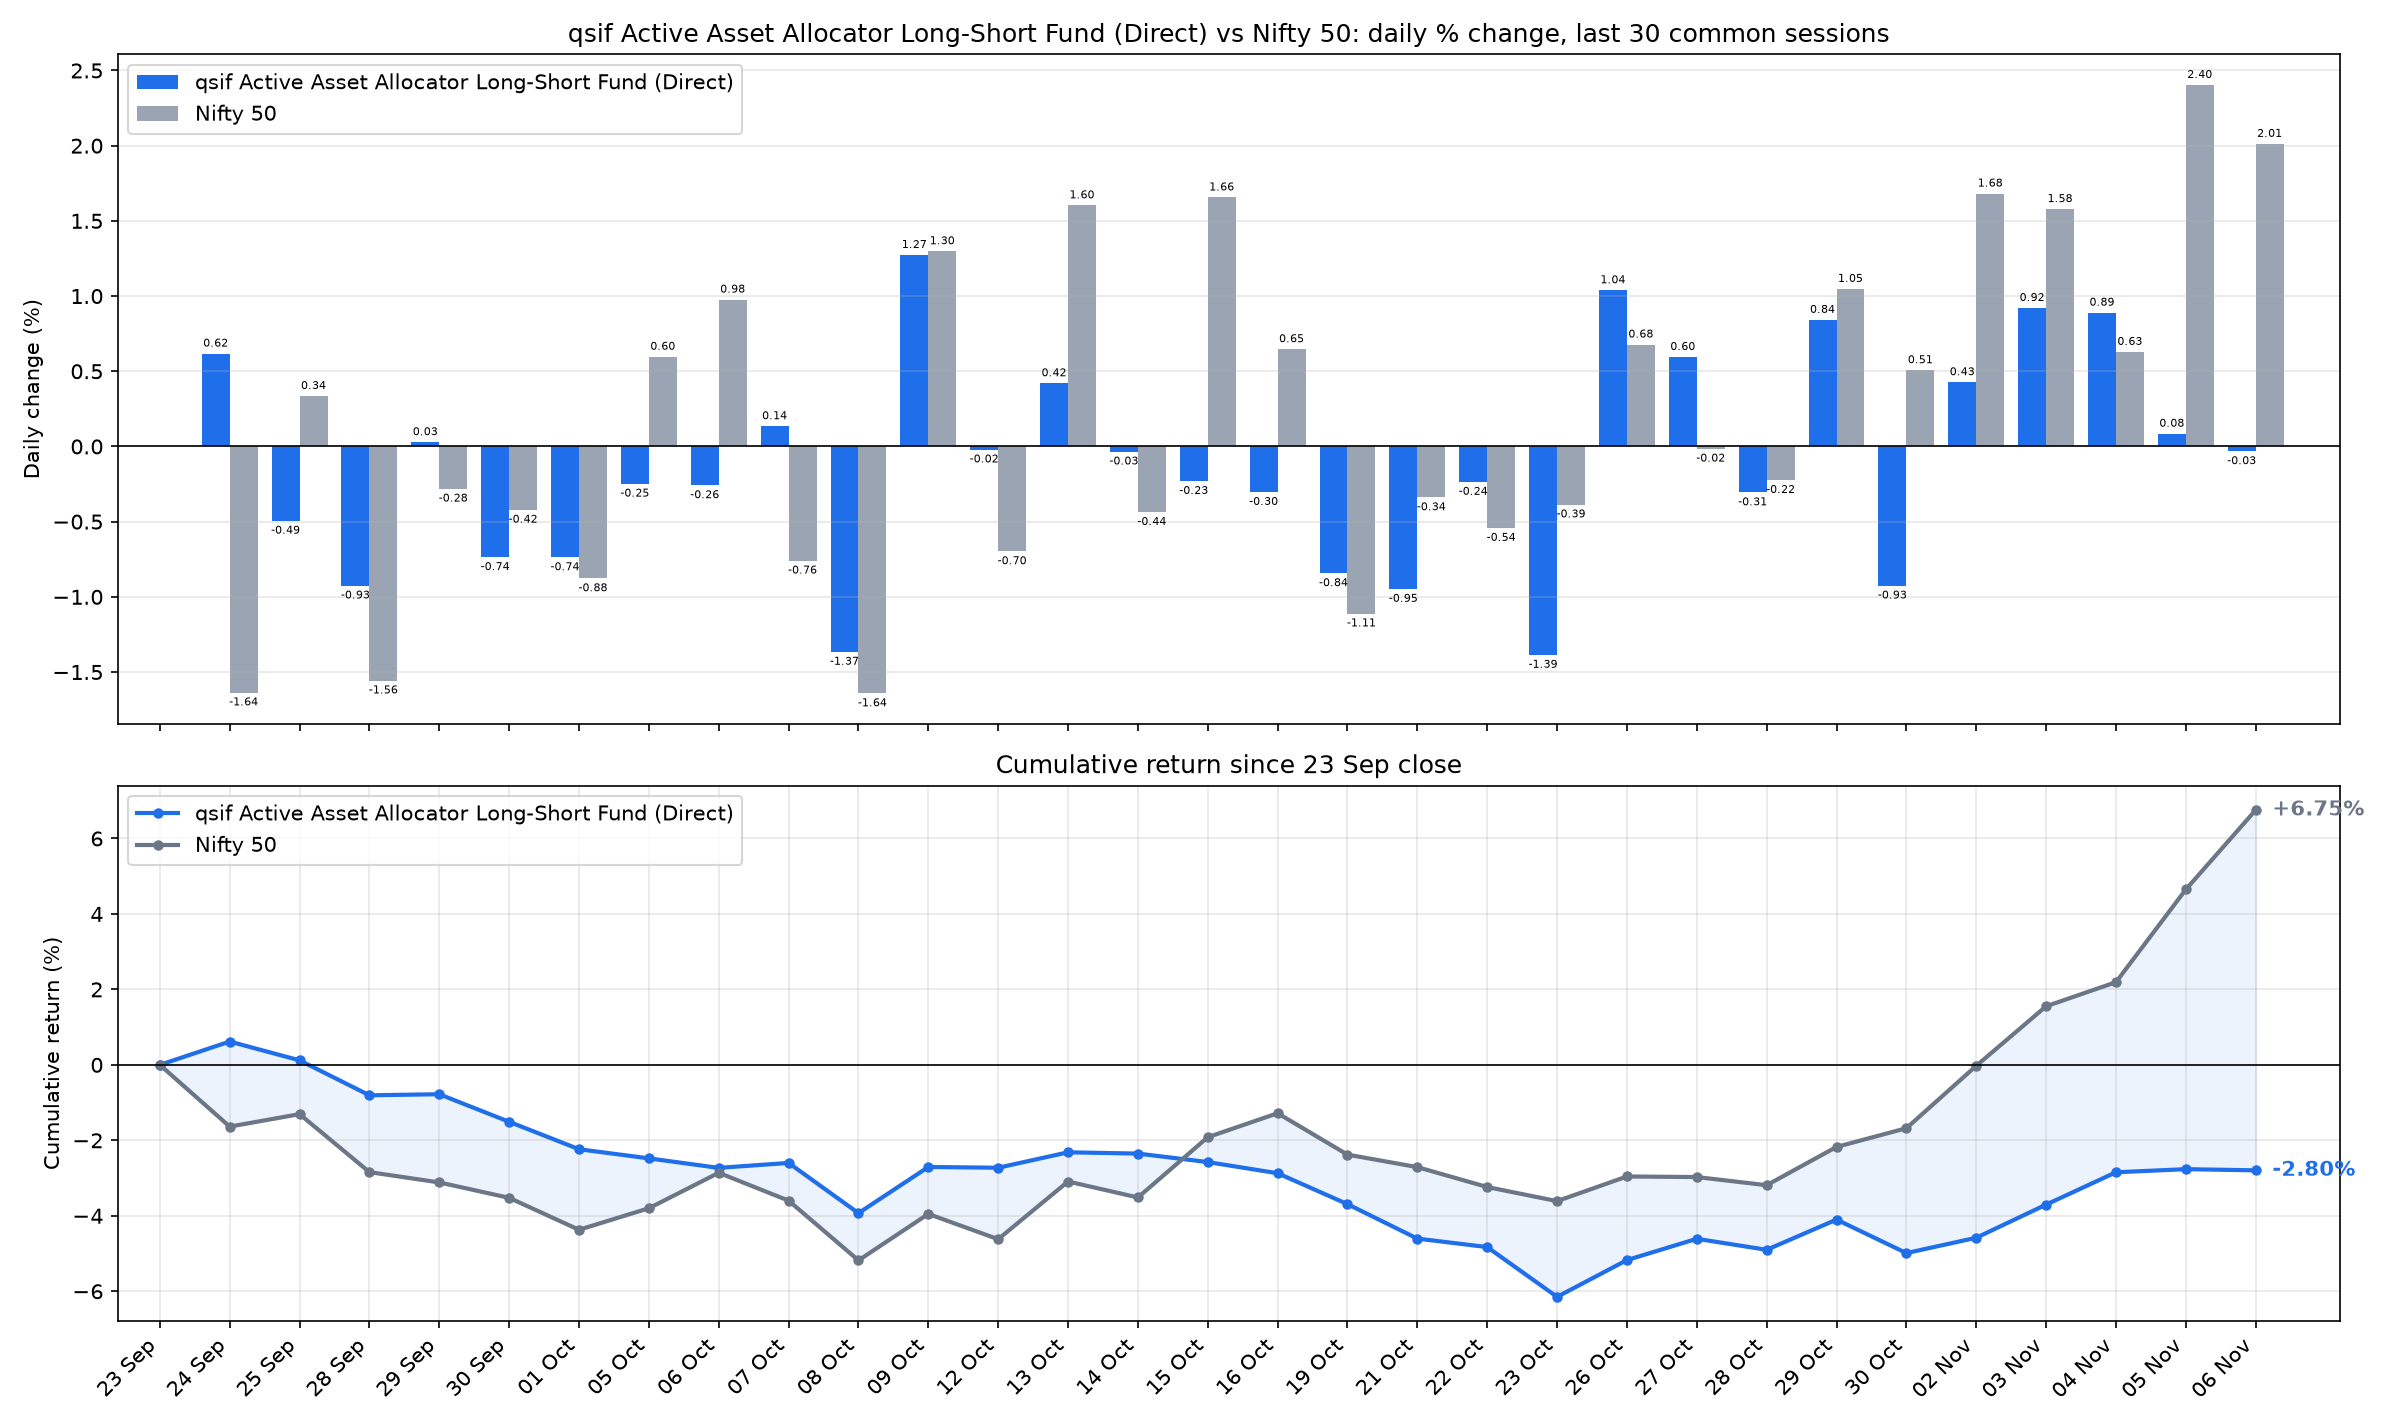
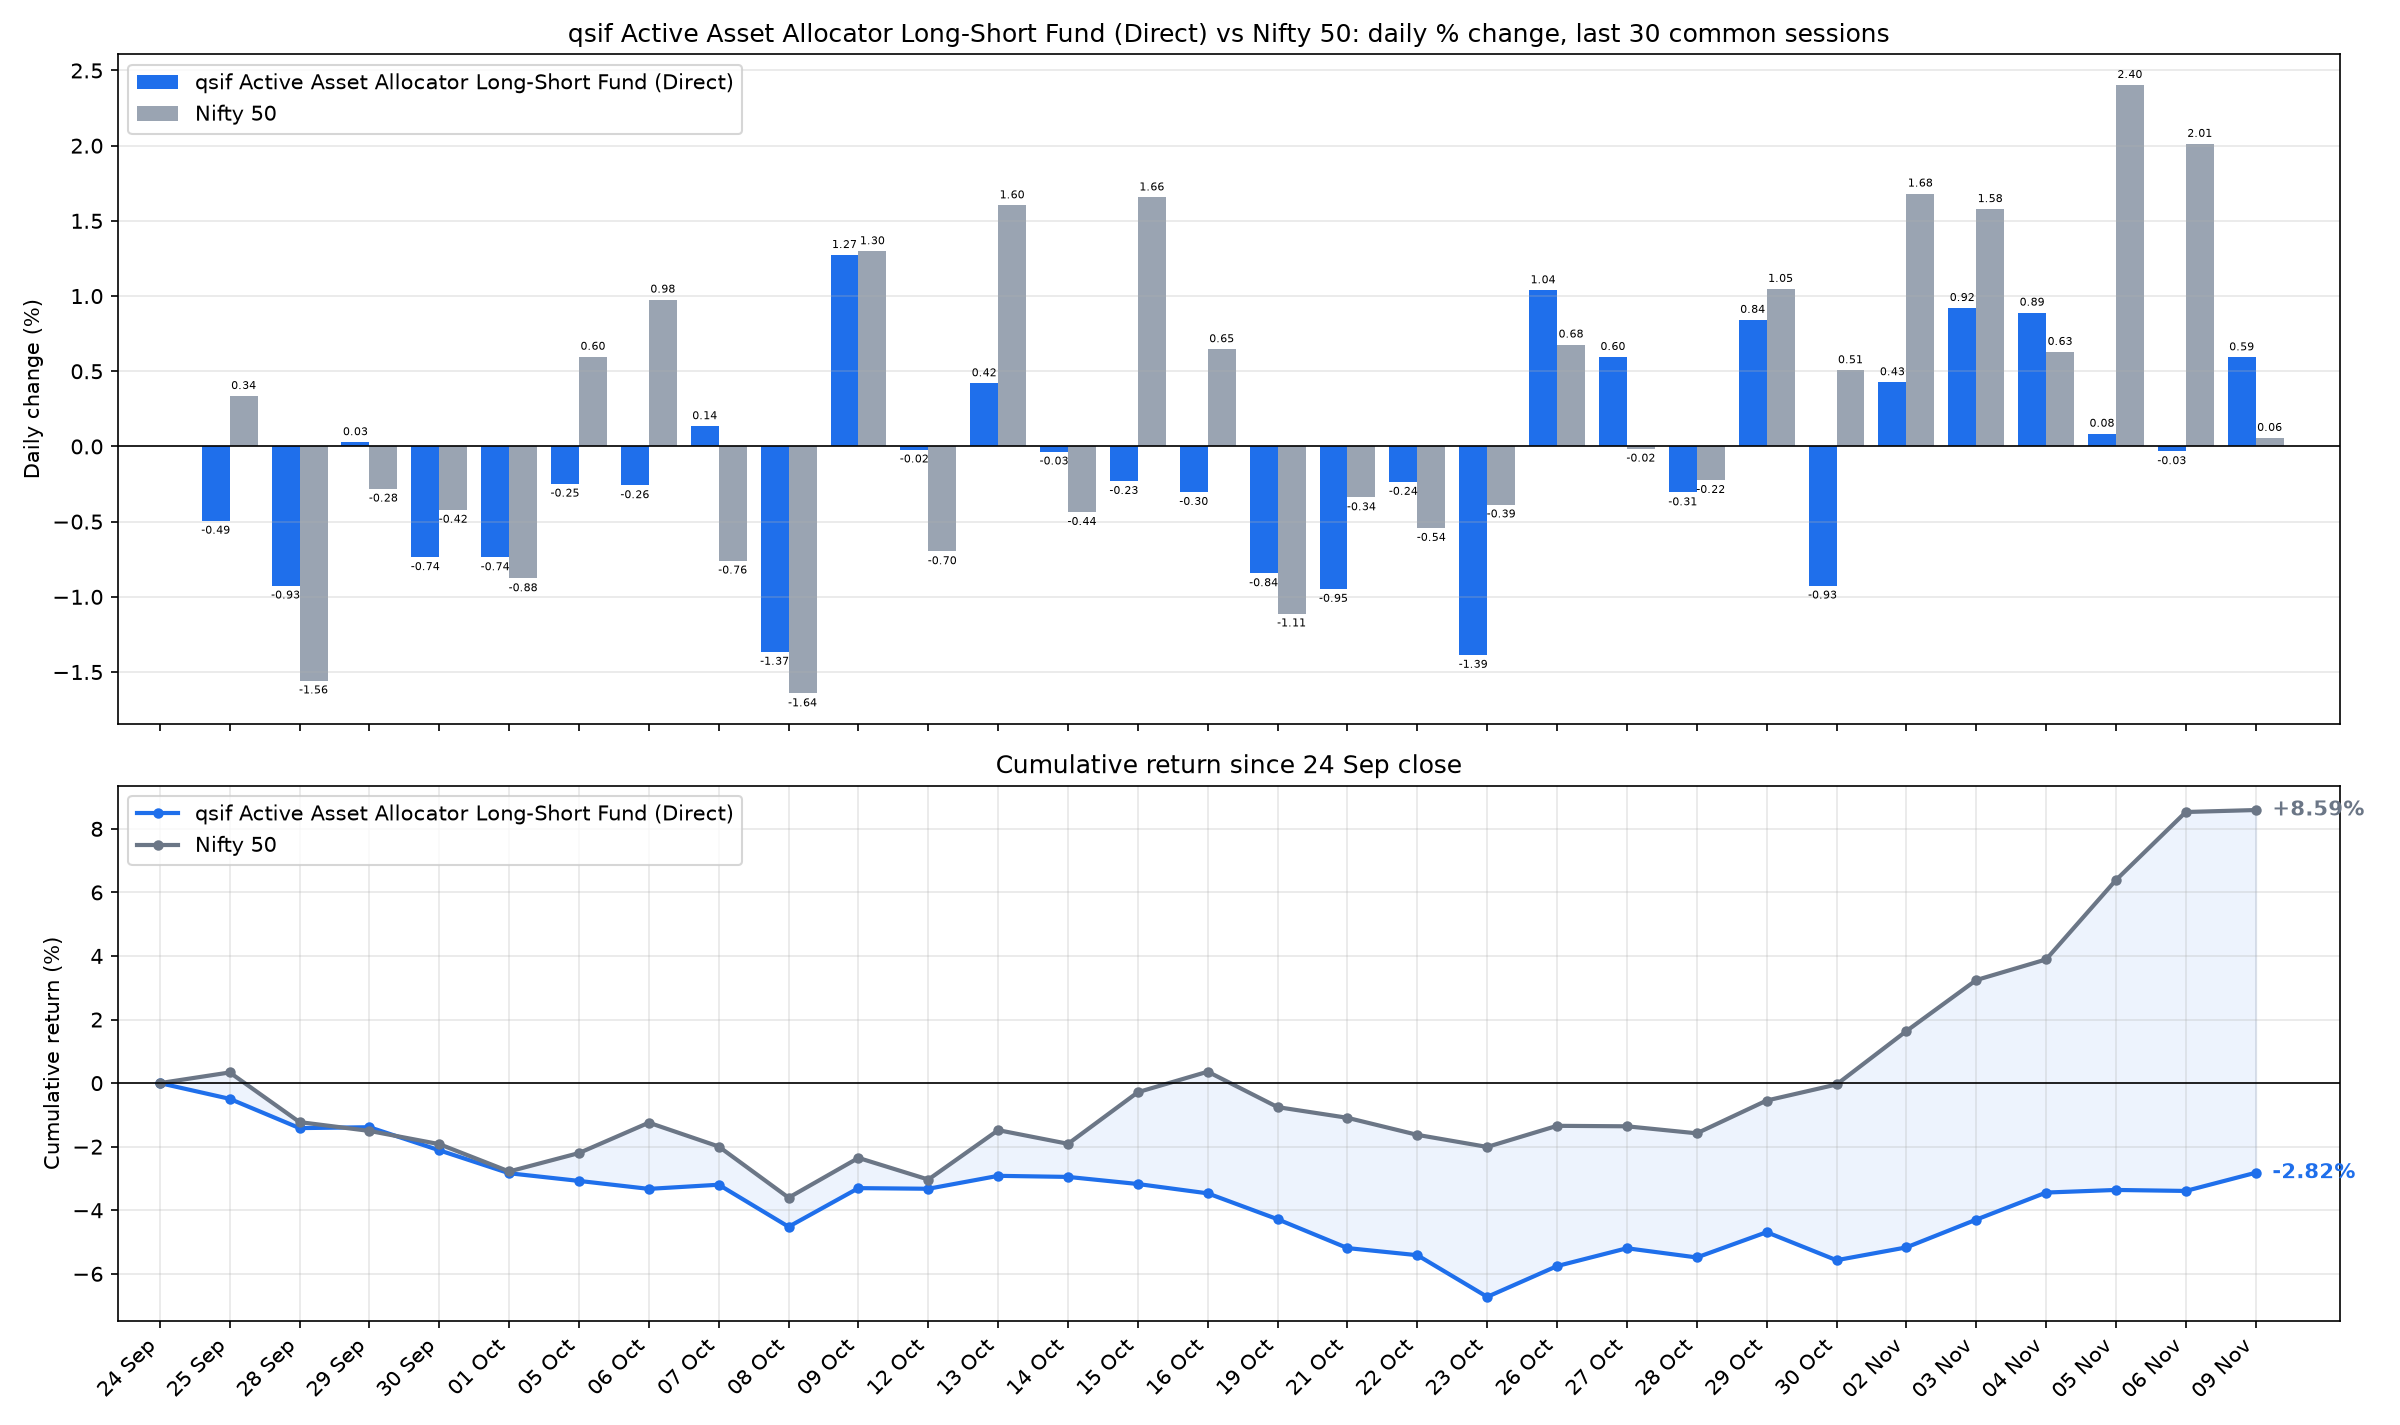
Update SIF vs Nifty charts (2026-11-11)

diff --git a/index.html b/index.html
@@ -16,8 +16,8 @@ img{width:100%;height:auto;border-radius:8px;background:#fff}
 footer{color:var(--muted);font-size:13px}
 </style></head><body><main>
 <h1>SIF funds vs Nifty 50</h1>
-<p class="sub">Daily and monthly % change (bars) with cumulative return (lines). Updated 10 Nov 2026 11:36 UTC.</p>
+<p class="sub">Daily and monthly % change (bars) with cumulative return (lines). Updated 11 Nov 2026 11:22 UTC.</p>
 <nav><a href="#f1">qsif Equity Long Short Fund (Direct)</a> <a href="#f5">qsif Hybrid Long-Short Fund (Direct)</a> <a href="#f90">qsif Active Asset Allocator Long-Short Fund (Direct)</a> <a href="#f23">qsif Equity Ex-Top 100 Long-Short Fund (Direct)</a></nav>
-<section id="f1"><h2>qsif Equity Long Short Fund (Direct)</h2><h3>Monthly, last 12 months</h3><img src="charts/sif_1_monthly.png?v=202611101136" alt="qsif Equity Long Short Fund (Direct) monthly" loading="lazy"><h3>Daily, last 30 sessions</h3><img src="charts/sif_1.png?v=202611101136" alt="qsif Equity Long Short Fund (Direct) daily" loading="lazy"></section><section id="f5"><h2>qsif Hybrid Long-Short Fund (Direct)</h2><h3>Monthly, last 12 months</h3><img src="charts/sif_5_monthly.png?v=202611101136" alt="qsif Hybrid Long-Short Fund (Direct) monthly" loading="lazy"><h3>Daily, last 30 sessions</h3><img src="charts/sif_5.png?v=202611101136" alt="qsif Hybrid Long-Short Fund (Direct) daily" loading="lazy"></section><section id="f90"><h2>qsif Active Asset Allocator Long-Short Fund (Direct)</h2><h3>Monthly, last 12 months</h3><img src="charts/sif_90_monthly.png?v=202611101136" alt="qsif Active Asset Allocator Long-Short Fund (Direct) monthly" loading="lazy"><h3>Daily, last 30 sessions</h3><img src="charts/sif_90.png?v=202611101136" alt="qsif Active Asset Allocator Long-Short Fund (Direct) daily" loading="lazy"></section><section id="f23"><h2>qsif Equity Ex-Top 100 Long-Short Fund (Direct)</h2><h3>Monthly, last 12 months</h3><img src="charts/sif_23_monthly.png?v=202611101136" alt="qsif Equity Ex-Top 100 Long-Short Fund (Direct) monthly" loading="lazy"><h3>Daily, last 30 sessions</h3><img src="charts/sif_23.png?v=202611101136" alt="qsif Equity Ex-Top 100 Long-Short Fund (Direct) daily" loading="lazy"></section>
+<section id="f1"><h2>qsif Equity Long Short Fund (Direct)</h2><h3>Monthly, last 12 months</h3><img src="charts/sif_1_monthly.png?v=202611111122" alt="qsif Equity Long Short Fund (Direct) monthly" loading="lazy"><h3>Daily, last 30 sessions</h3><img src="charts/sif_1.png?v=202611111122" alt="qsif Equity Long Short Fund (Direct) daily" loading="lazy"></section><section id="f5"><h2>qsif Hybrid Long-Short Fund (Direct)</h2><h3>Monthly, last 12 months</h3><img src="charts/sif_5_monthly.png?v=202611111122" alt="qsif Hybrid Long-Short Fund (Direct) monthly" loading="lazy"><h3>Daily, last 30 sessions</h3><img src="charts/sif_5.png?v=202611111122" alt="qsif Hybrid Long-Short Fund (Direct) daily" loading="lazy"></section><section id="f90"><h2>qsif Active Asset Allocator Long-Short Fund (Direct)</h2><h3>Monthly, last 12 months</h3><img src="charts/sif_90_monthly.png?v=202611111122" alt="qsif Active Asset Allocator Long-Short Fund (Direct) monthly" loading="lazy"><h3>Daily, last 30 sessions</h3><img src="charts/sif_90.png?v=202611111122" alt="qsif Active Asset Allocator Long-Short Fund (Direct) daily" loading="lazy"></section><section id="f23"><h2>qsif Equity Ex-Top 100 Long-Short Fund (Direct)</h2><h3>Monthly, last 12 months</h3><img src="charts/sif_23_monthly.png?v=202611111122" alt="qsif Equity Ex-Top 100 Long-Short Fund (Direct) monthly" loading="lazy"><h3>Daily, last 30 sessions</h3><img src="charts/sif_23.png?v=202611111122" alt="qsif Equity Ex-Top 100 Long-Short Fund (Direct) daily" loading="lazy"></section>
 <footer>Fund NAVs: Charlie API. Nifty 50: Yahoo Finance. For education and research, not investment advice.</footer>
 </main></body></html>
